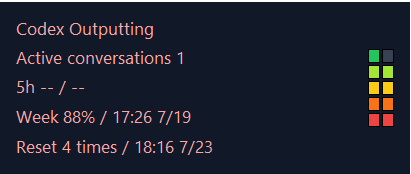
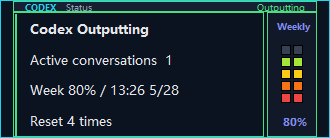
polish: refresh bilingual hud presentation

Changed region(s): [[0.0, 0.0, 1.0, 1.0], [0.8485, 0.2609, 0.9697, 0.7536], [0.8485, 0.8406, 0.9394, 0.9275]]

diff --git a/scripts/ui/status_rows.py b/scripts/ui/status_rows.py
@@ -79,9 +79,24 @@ class StatusRows(tk.Frame):
         }
         for label in self.labels.values():
             label.pack_forget()
-        for row_id in ROW_IDS:
-            if visible[row_id]:
+            label.grid_forget()
+            label.place_forget()
+        visible_ids = [row_id for row_id in ROW_IDS if visible[row_id]]
+        visible_count = len(visible_ids)
+        if not self.winfo_ismapped():
+            for row_id in visible_ids:
                 self.labels[row_id].pack(fill="x", expand=True, anchor="w")
+            return
+        for visible_index, row_id in enumerate(visible_ids):
+            label = self.labels[row_id]
+            label.place(
+                relx=0,
+                rely=visible_index / visible_count,
+                relwidth=1,
+                relheight=1 / visible_count,
+                anchor="nw",
+            )
+        self.update_idletasks()
 
     def row_values(self):
         return {row_id: label.cget("text") for row_id, label in self.labels.items()}

diff --git a/tests/test_ui_redesign.py b/tests/test_ui_redesign.py
@@ -47,7 +47,7 @@ class UiRedesignTests(unittest.TestCase):
     def test_signal_hud_theme_is_stable_and_accessible(self):
         from ui.theme import COLORS, FONT_FAMILY
 
-        self.assertEqual(FONT_FAMILY, "Segoe UI")
+        self.assertEqual(FONT_FAMILY, "Microsoft YaHei UI")
         self.assertEqual(COLORS["background"], "#0b1220")
         self.assertEqual(COLORS["text"], "#e5e7eb")
         self.assertEqual(COLORS["accent"], "#22d3ee")
@@ -149,10 +149,16 @@ class UiRedesignTests(unittest.TestCase):
         app = self.new_app()
         try:
             app.apply_settings({**app.settings, "language": "zh-CN", "battery_quota_source": "weekly"})
+            self.assertEqual(translate("zh-CN", "status"), "\u72b6\u6001")
+            self.assertEqual(translate("zh-CN", "output"), "\u8f93\u51fa\u4e2d")
+            self.assertEqual(translate("zh-CN", "weekly"), "\u6bcf\u5468")
             app.latest_activity = {"active": 1, "detail": "输出中", "progress": "活动对话 1 个"}
             app.render_status()
             self.assertEqual(app.hud_status.cget("text"), translate("zh-CN", "output"))
             self.assertEqual(app.signal_title.cget("text"), translate("zh-CN", "weekly"))
+            self.assertEqual(app.status_title.cget("text"), "\u72b6\u6001")
+            self.assertEqual(app.hud_status.cget("text"), "\u8f93\u51fa\u4e2d")
+            self.assertEqual(app.signal_title.cget("text"), "\u6bcf\u5468")
             app.apply_settings({**app.settings, "language": "en", "battery_quota_source": "primary_5h"})
             app.render_status()
             self.assertEqual(app.hud_status.cget("text"), translate("en", "output"))

diff --git a/scripts/ui/theme.py b/scripts/ui/theme.py
@@ -3,7 +3,9 @@
 from __future__ import annotations
 
 
-FONT_FAMILY = "Segoe UI"
+# Microsoft YaHei UI provides stable CJK glyphs on supported Windows hosts while
+# retaining the same compact, modern proportions for the English interface.
+FONT_FAMILY = "Microsoft YaHei UI"
 
 COLORS = {
     "background": "#0b1220",
@@ -21,5 +23,5 @@ COLORS = {
 
 
 def scaled_font(size, weight="normal"):
-    """Return a consistent Segoe UI tuple for Tk widgets."""
+    """Return a consistent bilingual font tuple for Tk widgets."""
     return (FONT_FAMILY, size, weight)

diff --git a/scripts/ui/main_window.py b/scripts/ui/main_window.py
@@ -416,7 +416,8 @@ class Pet(tk.Tk):
         return display
 
     def _font_spec(self, family, logical_point_size):
-        pixels = max(1, round(logical_point_size * self.window_dpi / 72.0))
+        scale = 0.7 if self.settings.get("language") == "zh-CN" else 1.0
+        pixels = max(1, round(logical_point_size * self.window_dpi / 72.0 * scale))
         return family, -pixels
 
     def _pack_expanded_content(self):